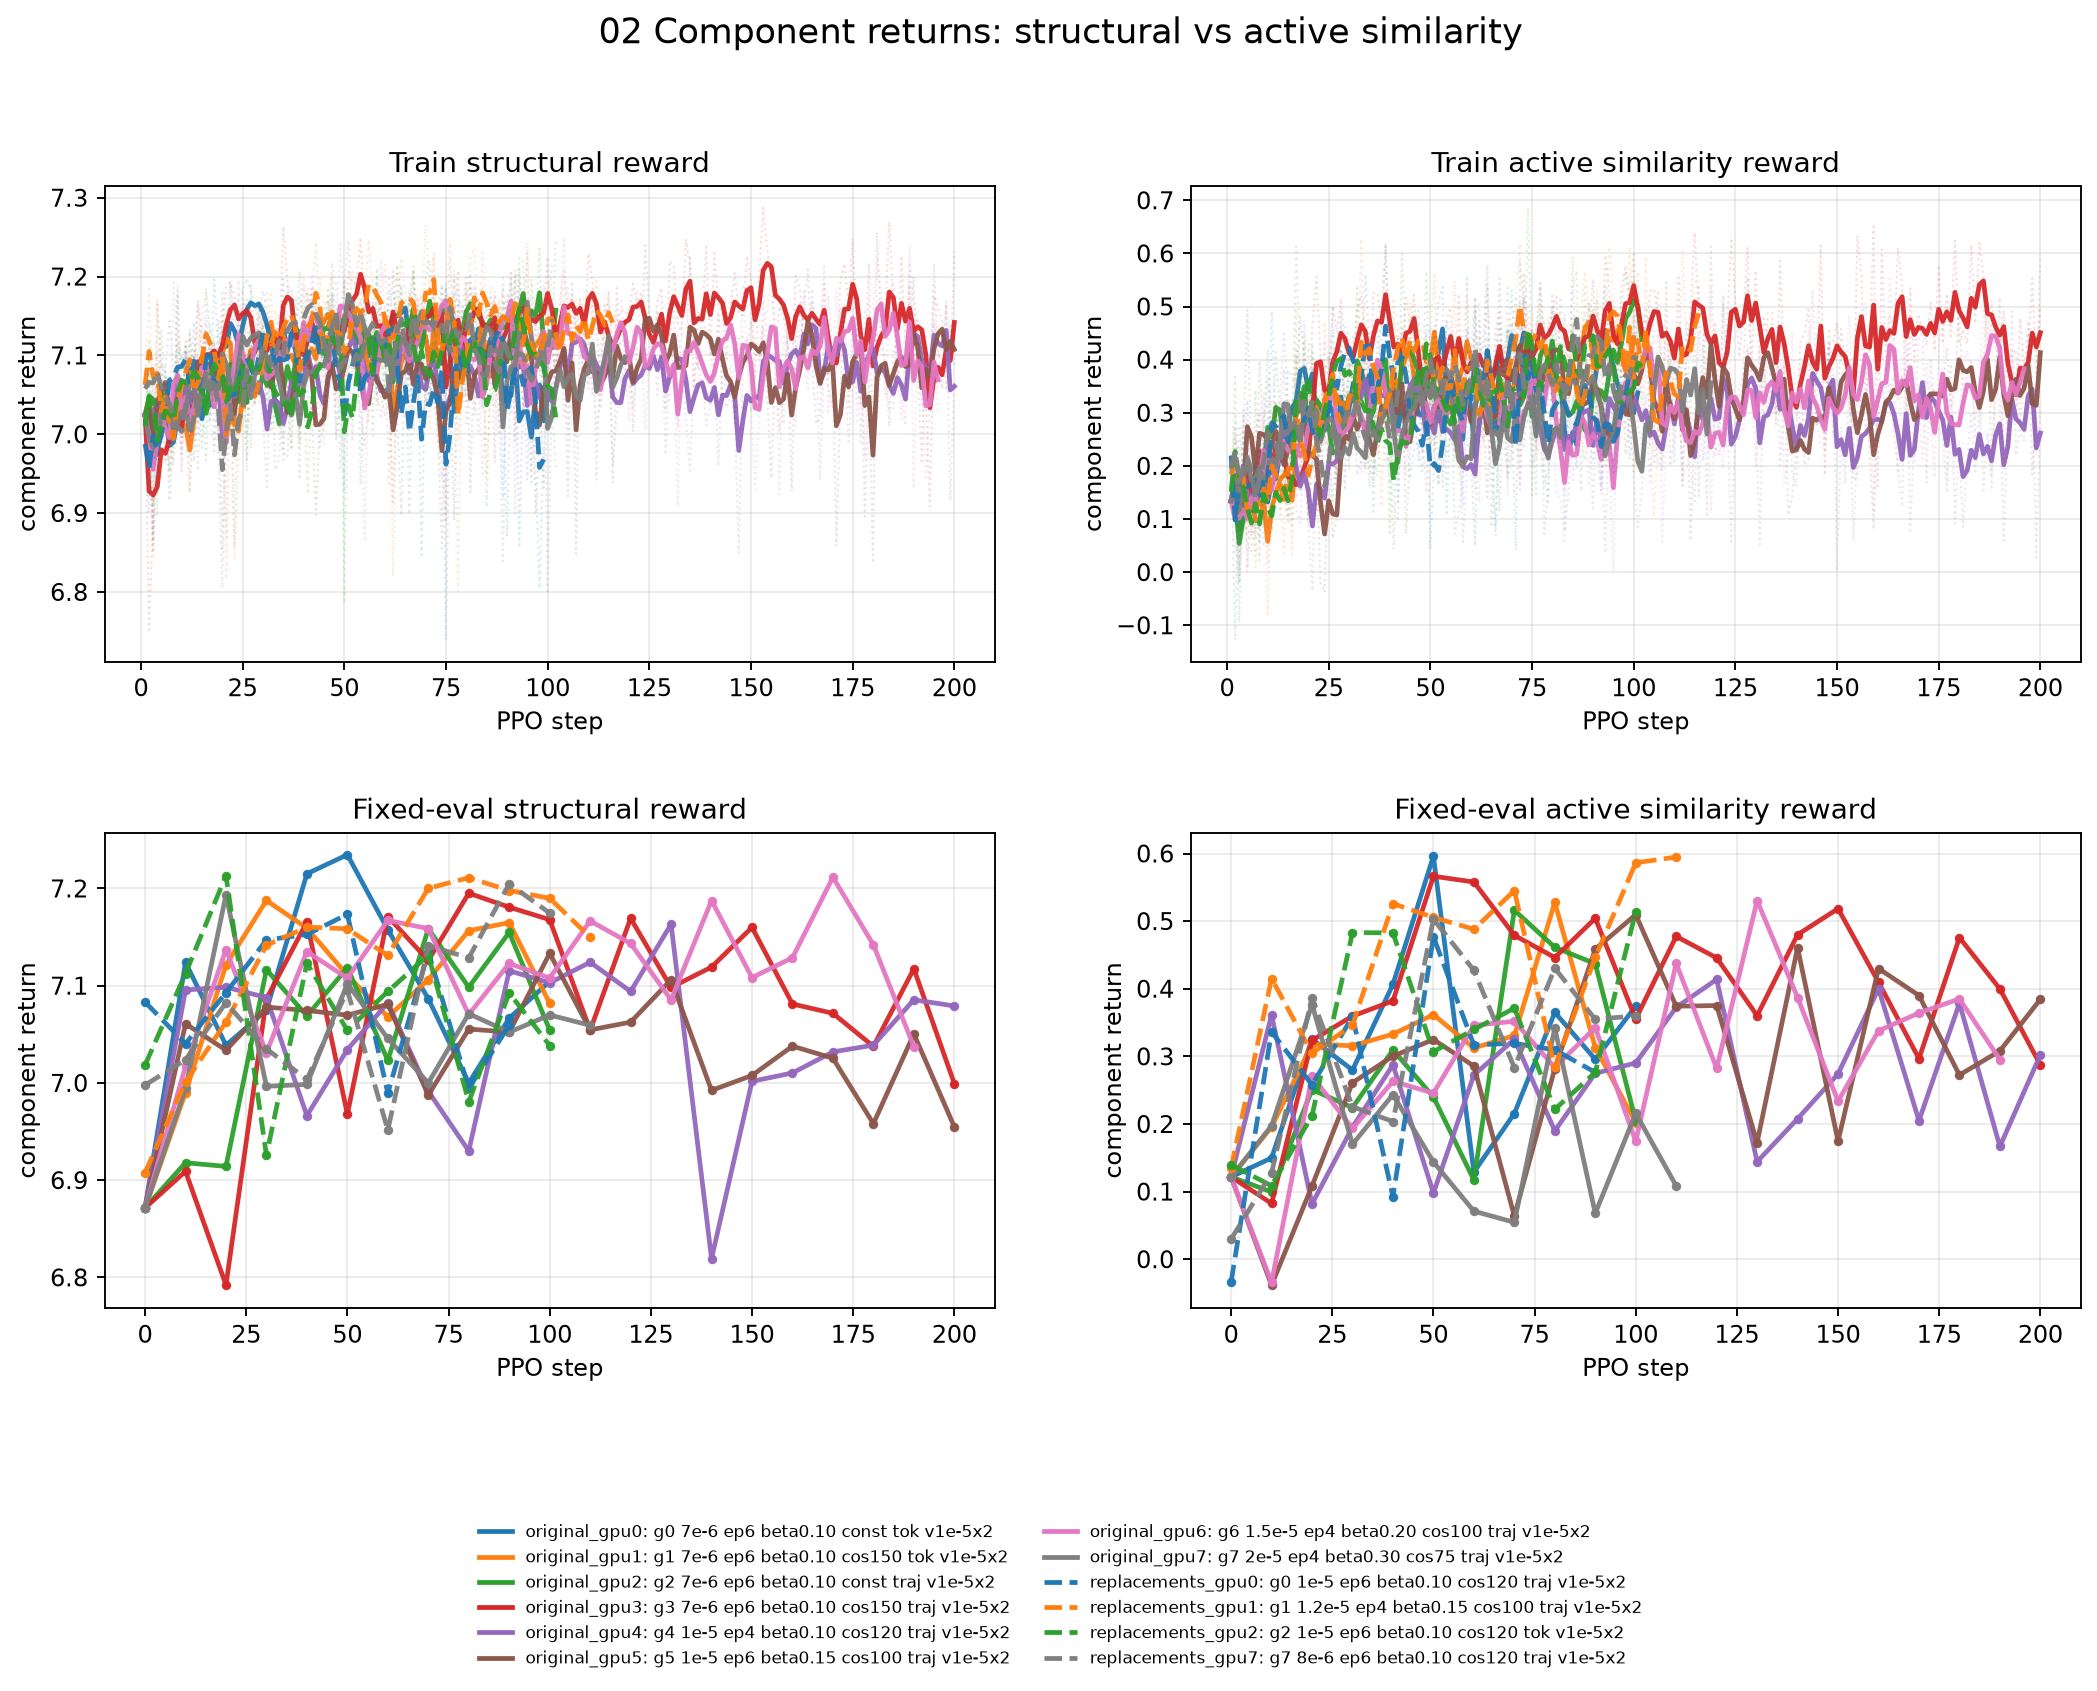
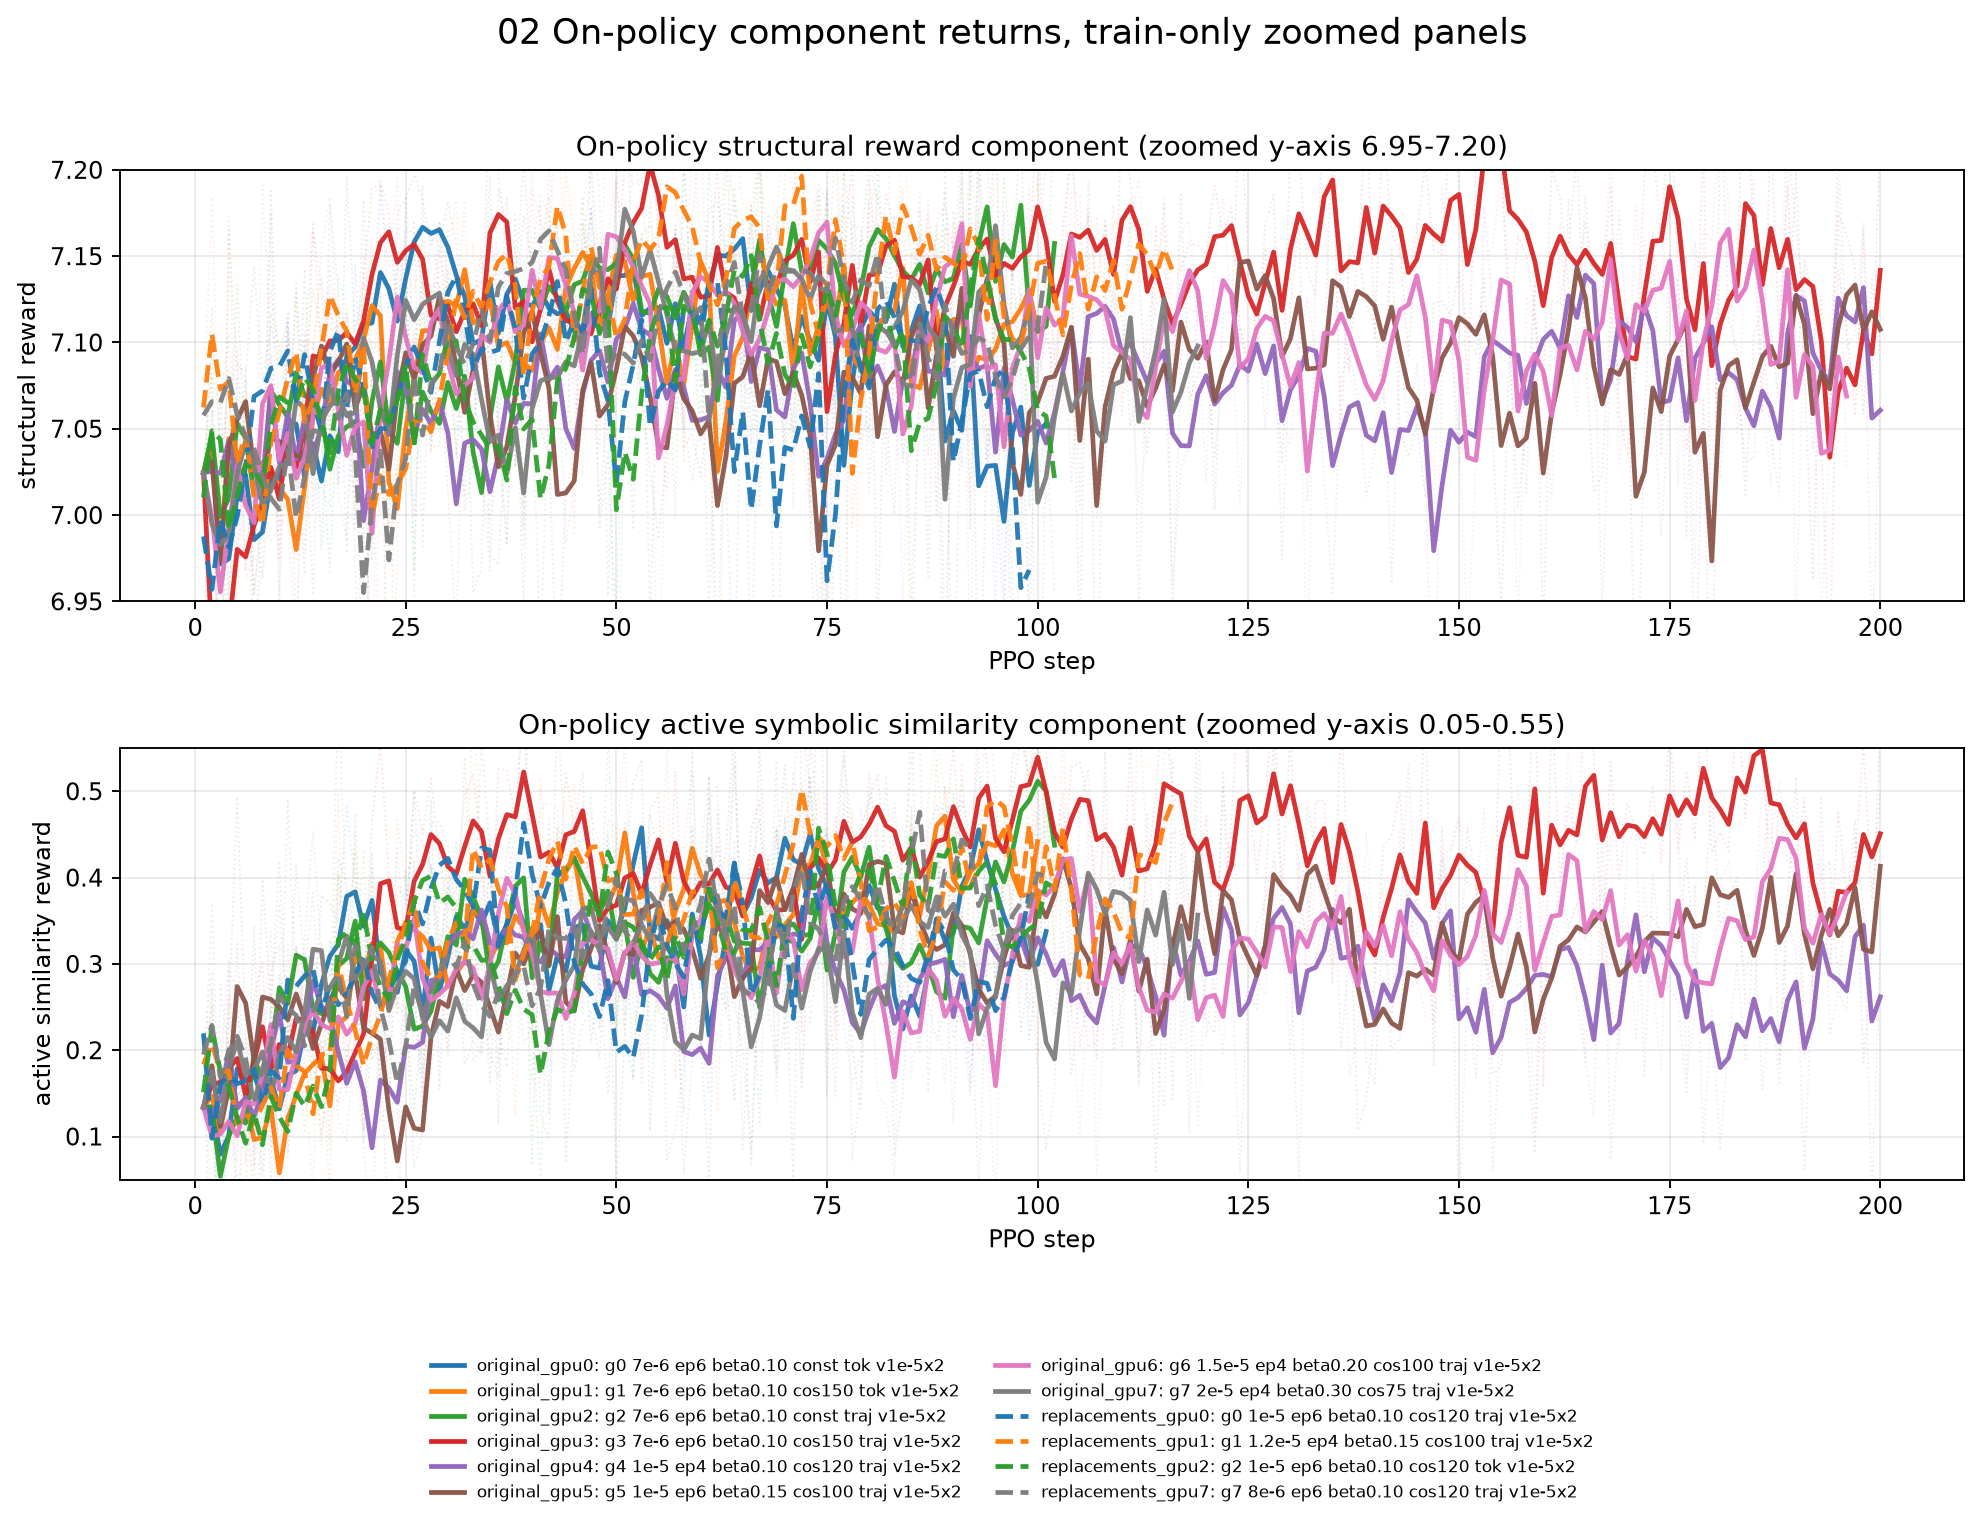
Zoom PPO component plot

diff --git a/README.md b/README.md
@@ -226,9 +226,11 @@ epochs. On the fixed evaluation set, that run improves total reward from
 
 ![PPO train and fixed-eval returns](docs/assets/ppo_monitoring/ppo_returns_onpolicy_zoom.png)
 
-The component plot shows that the reward increase is not only a structural
-formatting gain: the active similarity component rises substantially in the
-better controlled runs. The most aggressive-looking peak in this sweep reaches
+The train-only component plot zooms the on-policy structural and similarity
+subrewards, so the component movement is easier to see. It shows that the
+reward increase is not only a structural formatting gain: the active similarity
+component rises substantially in the better controlled runs. The most
+aggressive-looking peak in this sweep reaches
 a higher fixed-eval reward (`7.831` at step 50), but then drops back to `7.479`
 as exact KL climbs to about `1.106`. This is the failure mode I want to avoid:
 without enough reference control, the policy can move quickly away from the SFT
